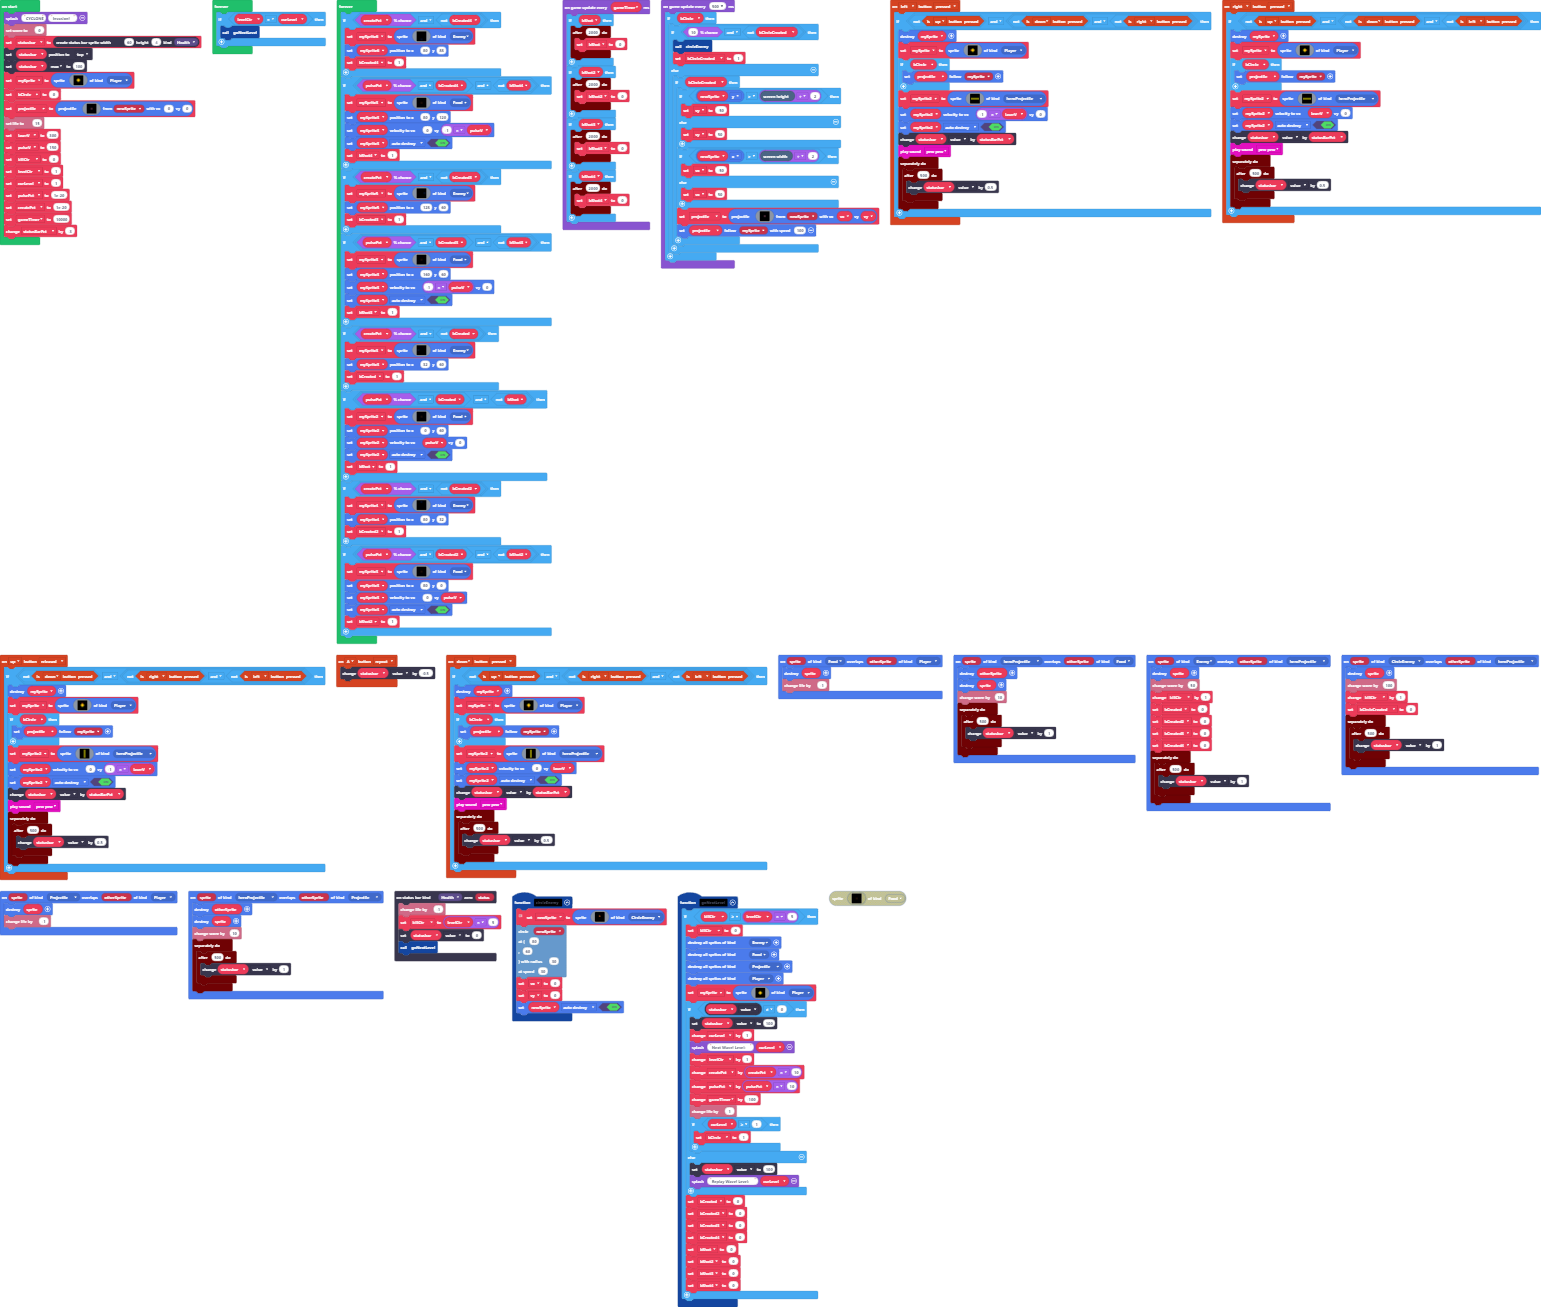
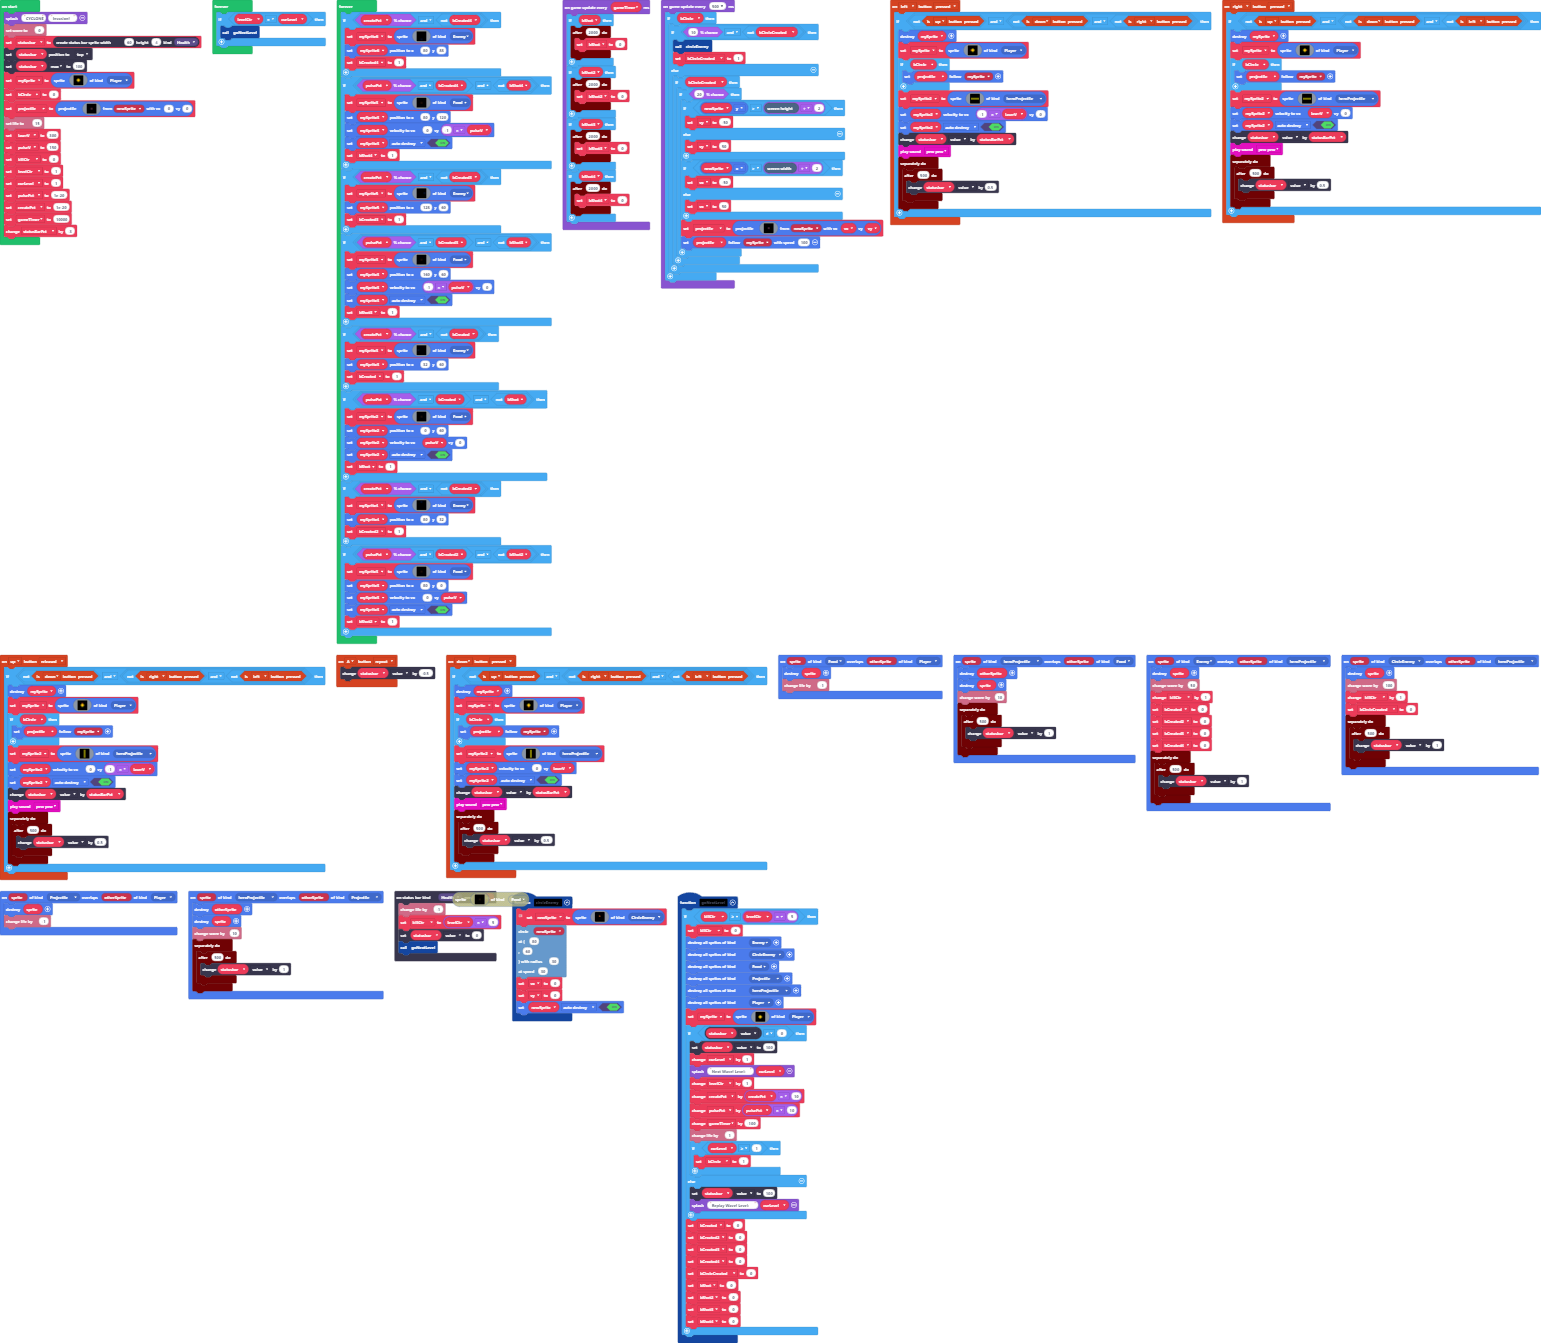
Update main.blocks, main.ts

Changed region(s): [[0.0, 0.0, 1.0, 0.9793]]

diff --git a/main.ts b/main.ts
@@ -134,8 +134,10 @@ function goNextLevel () {
     if (killCtr >= levelCtr * 5) {
         killCtr = 0
         sprites.destroyAllSpritesOfKind(SpriteKind.Enemy)
+        sprites.destroyAllSpritesOfKind(SpriteKind.CircleEnemy)
         sprites.destroyAllSpritesOfKind(SpriteKind.Food)
         sprites.destroyAllSpritesOfKind(SpriteKind.Projectile)
+        sprites.destroyAllSpritesOfKind(SpriteKind.heroProjectile)
         sprites.destroyAllSpritesOfKind(SpriteKind.Player)
         mySprite = sprites.create(assets.image`Cyclone`, SpriteKind.Player)
         if (statusbar.value != 0) {
@@ -158,6 +160,7 @@ function goNextLevel () {
         bCreated2 = 0
         bCreated3 = 0
         bCreated4 = 0
+        bCircleCreated = 0
         bShot = 0
         bShot2 = 0
         bShot3 = 0
@@ -360,35 +363,37 @@ game.onUpdateInterval(500, function () {
             bCircleCreated = 1
         } else {
             if (bCircleCreated) {
-                if (newSprite.y > scene.screenHeight() / 2) {
-                    vy = -50
-                } else {
-                    vy = 50
+                if (Math.percentChance(20)) {
+                    if (newSprite.y > scene.screenHeight() / 2) {
+                        vy = -50
+                    } else {
+                        vy = 50
+                    }
+                    if (newSprite.x > scene.screenWidth() / 2) {
+                        vx = -50
+                    } else {
+                        vx = 50
+                    }
+                    projectile = sprites.createProjectileFromSprite(img`
+                        . . . . . . . . . . . . . . . . 
+                        . . . . . . . . . . . . . . . . 
+                        . . . . . . . . . . . . . . . . 
+                        . . . . . . . . . . . . . . . . 
+                        . . . . . . . . . . . . . . . . 
+                        . . . . . . . . . . . . . . . . 
+                        . . . . . . . . . . . . . . . . 
+                        . . . . . . . 3 3 . . . . . . . 
+                        . . . . . . . 3 3 . . . . . . . 
+                        . . . . . . . . . . . . . . . . 
+                        . . . . . . . . . . . . . . . . 
+                        . . . . . . . . . . . . . . . . 
+                        . . . . . . . . . . . . . . . . 
+                        . . . . . . . . . . . . . . . . 
+                        . . . . . . . . . . . . . . . . 
+                        . . . . . . . . . . . . . . . . 
+                        `, newSprite, vx, vy)
+                    projectile.follow(mySprite, 100)
                 }
-                if (newSprite.x > scene.screenWidth() / 2) {
-                    vx = -50
-                } else {
-                    vx = 50
-                }
-                projectile = sprites.createProjectileFromSprite(img`
-                    . . . . . . . . . . . . . . . . 
-                    . . . . . . . . . . . . . . . . 
-                    . . . . . . . . . . . . . . . . 
-                    . . . . . . . . . . . . . . . . 
-                    . . . . . . . . . . . . . . . . 
-                    . . . . . . . . . . . . . . . . 
-                    . . . . . . . . . . . . . . . . 
-                    . . . . . . . 3 3 . . . . . . . 
-                    . . . . . . . 3 3 . . . . . . . 
-                    . . . . . . . . . . . . . . . . 
-                    . . . . . . . . . . . . . . . . 
-                    . . . . . . . . . . . . . . . . 
-                    . . . . . . . . . . . . . . . . 
-                    . . . . . . . . . . . . . . . . 
-                    . . . . . . . . . . . . . . . . 
-                    . . . . . . . . . . . . . . . . 
-                    `, newSprite, vx, vy)
-                projectile.follow(mySprite, 100)
             }
         }
     }
